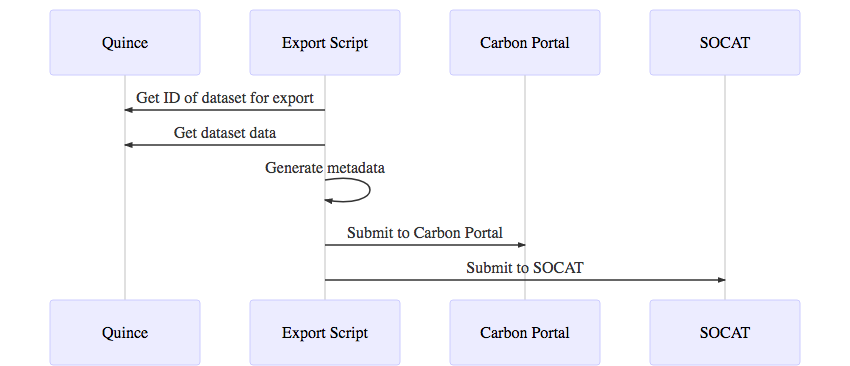
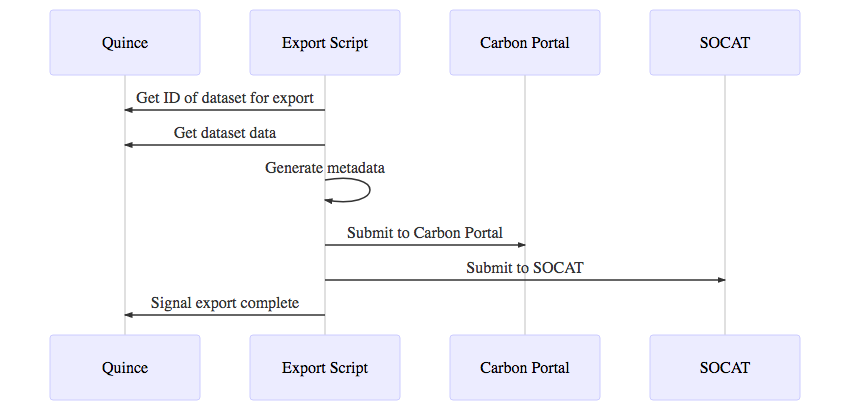
(#909) All export API calls documented

diff --git a/Documentation/Design/ExportScripts/ExportScripts.md b/Documentation/Design/ExportScripts/ExportScripts.md
@@ -101,3 +101,173 @@ Expert check      This action will only be available to OTC experts. When a
 Archive           Hides the dataset from the main QuinCe interface.
 -------------------------------------------------------------------------------
 Table: Actions that can be performed on datasets {#tbl:actions}
+
+## Export API
+
+The QuinCe API will provide three functions related to exporting of data, matching the three communications between the export script and QuinCe shown in [@Fig:simple_script_flow]. Each of these calls must have the necessary authentication tokens to identify the script to QuinCe to ensure that the application is secure, and that the identity being used by the script has the necessary permissions to export datasets; these will not be discussed in this document. Similarly, the various error situations that can occur (e.g. requesting export of a dataset that has not passed quality control) will not be discussed here.
+
+### `exportList` {#export_list}
+
+__URL:__ `QuinCe/api/export/exportList`
+
+__HTTP Method:__ GET
+
+__Return:__ JSON
+
+__Parameters:__ None
+
+This call will retrieve a list of all the datasets that are ready to be exported. The datasets will be identified by their database ID, but extra information will be returned to allow the export script to decide how to process each dataset and to produce meaningful log messages as it runs. The dataset details will be returned as a JSON array of objects in the following form:
+
+```json
+[
+  {
+    "id": 34,
+    "name": "GVNA20180703",
+    "nrt": false,
+    "instrument": {
+      "name": "Black Pig",
+      "owner": "Horatio Pugwash"
+    }
+  },
+  {
+    "id": 42,
+    "name": "NRTPESC1531481725",
+    "nrt": true,
+    "instrument": {
+      "name": "Not The Pescod",
+      "owner": "Captain Birdseye"
+    }
+  }
+]
+```
+
+The `id` is the unique identifier for the dataset, which can be used by subsequent API calls to perform operations on individual datasets. `nrt` indicates whether or not a dataset contains near-real-time data, which may need to be processed in a different manner to those that have been fully quality controlled.
+
+The call will only provide details of datasets whose status is 'Ready to export'. Complete, quality controlled datasets will be set to this status once manual quality control is complete and (optionally) the dataset has passed inspection by an OTC expert. Near-real-time datasets will automatically have their status set to 'Ready to export' as soon as they are created.
+
+
+### `exportDataset`
+
+__URL:__ `QuinCe/api/export/exportDataset`
+
+__HTTP Method:__ GET
+
+__Return:__ ZIP archive
+
+__Parameters:__
+
+-------------------------------------------------------------------------------
+Parameter      Description
+-------------- ----------------------------------------------------------------
+`id`           The dataset ID
+
+`formats`      The export formats required as a comma-separated list
+
+`includeRaw`   Indicates whether the raw data files are required
+-------------------------------------------------------------------------------
+
+This call will get everything required to export a dataset and export it to an external repository, including all files and metadata information. The result will be a ZIP archive containing all requested data files plus a JSON file containing metadata information. The dataset is selected using its ID, as returned by the [`exportList`](#export_list) call. QuinCe will be able to export datasets in a variety of formats, since different repositories may require different formats. The `formats` parameter will contain a list of the required formats. Setting `includeRaw` to `true` will include the raw data files used to create the dataset in the output.
+
+The ZIP archive will be named as the dataset name with a `.zip` extension, and will be structured as follows:
+
+```
+GVNA20180703.zip
++-- manifest.json
++-- dataset
+|   +-- CarbonPortal
+|   |   +-- GVNA20180703.csv
+|   +-- SOCAT
+|       +-- GVNA20180703.tsv
++-- raw
+    +-- 20150117.cnv
+    +-- 20150118.cnv
+    +-- GO175_2015-103-0000dat.txt
+```
+
+The `dataset` folder will contain publication-ready dataset. It will contain one folder for each requested export format. Within each folder will be a single file containing the exported data, named with the dataset name and an extension suitable for the format (`.tsv`, `.csv` etc.).
+
+If `includeRaw` is `true` , the `raw` folder will contain all the raw files used to construct the dataset. These will have their original filenames as they were uploaded to QuinCe. If `includeRaw` is `false`, this folder will not be included in the archive.
+
+`manifest.json` will contain a JSON object containing details of the files included in the archive together with metadata for the dataset that can be used by the export script. It will be formatted as follows:
+
+```json
+{
+  "manifest": {
+    "raw": ["20150117.cnv", "20150118.cnv", "GO175_2015-103-0000dat.txt"],
+    "dataset": [
+      {
+        "format": "CarbonPortal",
+        "filename": "GVNA20180703.csv"
+      },
+      {
+        "format": "SOCAT",
+        "filename": "GVNA20180703.tsv"
+      }
+    ]
+  },
+  "metadata": {
+    "name": "GVNA20180703",
+    "nrt": false,
+    "startdate": "2018-07-03T12:03:34Z",
+    "enddate": "2018-07-10T03:12:56Z",
+    "records": 722,
+    "bounds": {
+      "north": 68.764,
+      "south": 52.455,
+      "east": 5.432,
+      "west": -70.345
+    },
+    "quince_information": "Processed by QuinCe version 1.0.0"
+  }
+}
+```
+
+When this call is made and the data files are returned, the status of the dataset in QuinCe will be set to 'Exporting', so multiple concurrent export requests are not made. The intention is that [`completeExport`](#complete_export) is called by the export script once it has finished processing the dataset. However, if that call is not made within a given time period (e.g. 30 minutes), QuinCe will assume that the export process failed and set the dataset's status back to 'Ready to export' so it is freed to be processed again.
+
+### `completeExport` {#complete_export}
+
+__URL:__ `QuinCe/api/export/completeExport`
+
+__HTTP Method:__ GET
+
+__Return:__ JSON
+
+__Parameters:__
+
+-------------------------------------------------------------------------------
+Parameter      Description
+-------------- ----------------------------------------------------------------
+`id`           The dataset ID
+-------------------------------------------------------------------------------
+
+This call will simply set the status of the specified dataset to 'Exported', to indicate to QuinCe and its users that it has been published. It will return a simple JSON object that indicates whether or not the change of status was successful:
+
+```json
+{
+  "succeeded": "true"
+}
+```
+
+### `abandonExport`
+
+__URL:__ `QuinCe/api/export/abandonExport`
+
+__HTTP Method:__ GET
+
+__Return:__ JSON
+
+__Parameters:__
+
+-------------------------------------------------------------------------------
+Parameter      Description
+-------------- ----------------------------------------------------------------
+`id`           The dataset ID
+-------------------------------------------------------------------------------
+
+This call can be used if the export script retrieves a dataset for publication, but is unable to complete the publication process. It will reset the dataset's status to 'Ready to export', so it can be processed in a subsequent call. The call will return a simple JSON object that indicates whether or not the change of status was successful:
+
+```json
+{
+  "succeeded": "true"
+}
+```
